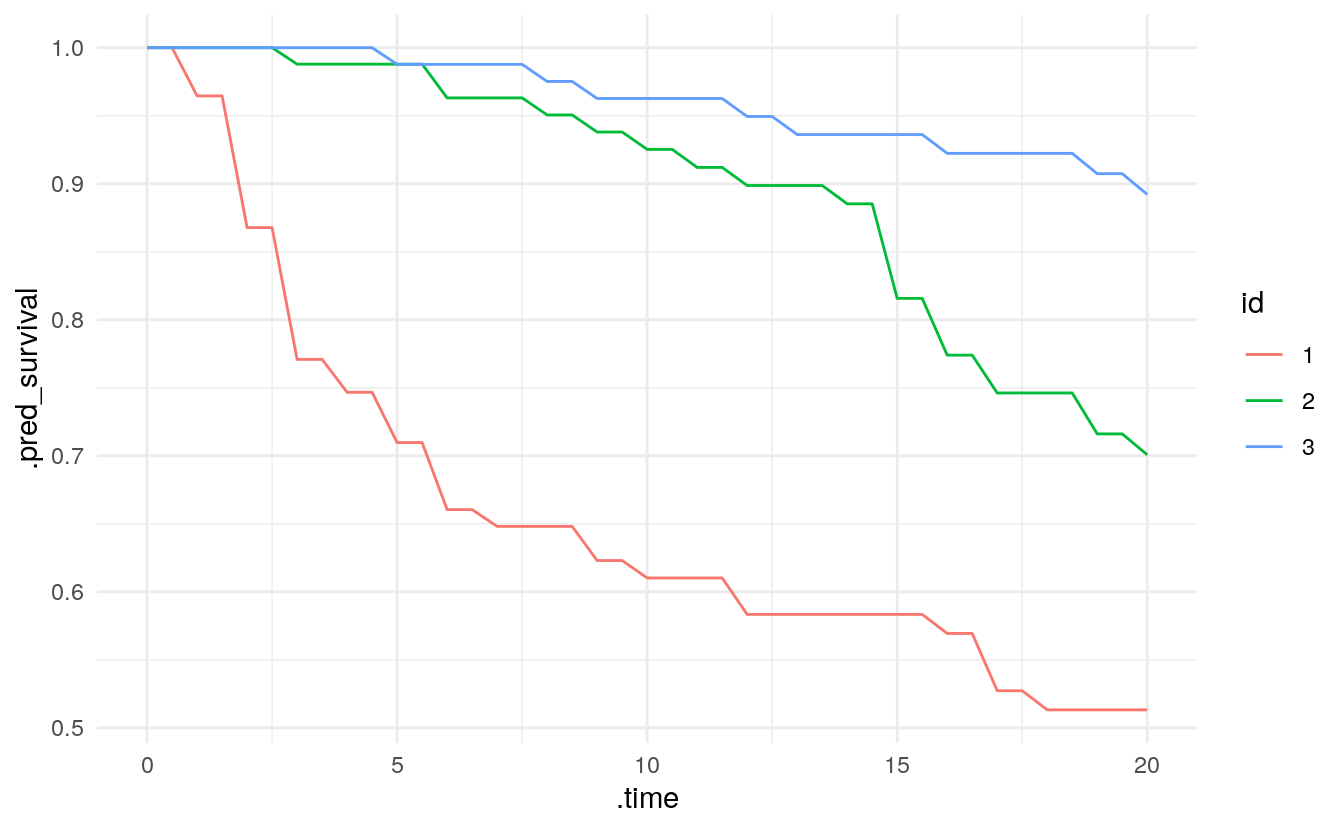
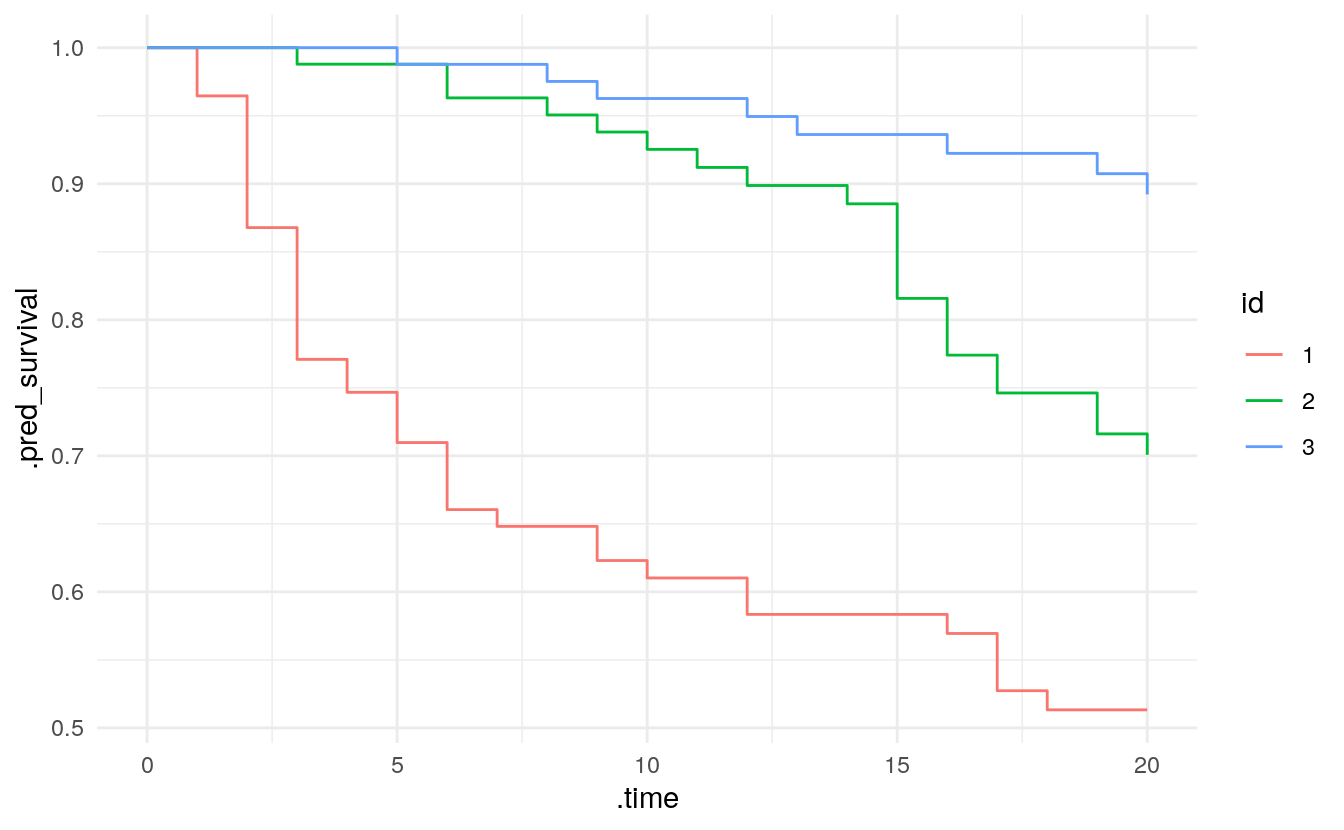
plot as step function (#545)

diff --git a/content/blog/survival-analysis-parsnip-adjacent/index.md b/content/blog/survival-analysis-parsnip-adjacent/index.md
@@ -17,7 +17,7 @@ photo:
 # one of: "deep-dive", "learn", "package", "programming", or "other"
 categories: [deep-dive] 
 tags: [tidymodels, parsnip]
-rmd_hash: 27c728640473f1a8
+rmd_hash: c180583753f3af16
 
 ---
 
@@ -103,7 +103,7 @@ We have introduced several new prediction types: time to event (`time`), linear 
 <div class="highlight">
 
 <pre class='chroma'><code class='language-r' data-lang='r'><span class='nv'>f_pred</span> <span class='o'>&lt;-</span> <span class='nf'><a href='https://rdrr.io/r/stats/predict.html'>predict</a></span><span class='o'>(</span><span class='nv'>f_fit</span>, new_data <span class='o'>=</span> <span class='nv'>bladder_test</span>,
-                  type <span class='o'>=</span> <span class='s'>"survival"</span>, time <span class='o'>=</span> <span class='nf'><a href='https://rdrr.io/r/base/seq.html'>seq</a></span><span class='o'>(</span><span class='m'>0</span>, <span class='m'>20</span>, <span class='m'>0.5</span><span class='o'>)</span><span class='o'>)</span>
+                  type <span class='o'>=</span> <span class='s'>"survival"</span>, time <span class='o'>=</span> <span class='nf'><a href='https://rdrr.io/r/base/seq.html'>seq</a></span><span class='o'>(</span><span class='m'>0</span>, <span class='m'>20</span>, <span class='m'>1</span><span class='o'>)</span><span class='o'>)</span>
 
 <span class='nv'>f_pred</span> <span class='o'>&lt;-</span> <span class='nv'>f_pred</span> <span class='o'><a href='https://magrittr.tidyverse.org/reference/pipe.html'>%&gt;%</a></span> 
   <span class='nf'>mutate</span><span class='o'>(</span>id <span class='o'>=</span> <span class='nf'><a href='https://rdrr.io/r/base/factor.html'>factor</a></span><span class='o'>(</span><span class='m'>1</span><span class='o'>:</span><span class='m'>3</span><span class='o'>)</span><span class='o'>)</span> <span class='o'><a href='https://magrittr.tidyverse.org/reference/pipe.html'>%&gt;%</a></span> 
@@ -111,7 +111,7 @@ We have introduced several new prediction types: time to event (`time`), linear 
 
 <span class='nv'>f_pred</span> <span class='o'><a href='https://magrittr.tidyverse.org/reference/pipe.html'>%&gt;%</a></span> 
   <span class='nf'>ggplot</span><span class='o'>(</span><span class='nf'>aes</span><span class='o'>(</span>x <span class='o'>=</span> <span class='nv'>.time</span>, y <span class='o'>=</span> <span class='nv'>.pred_survival</span>, col <span class='o'>=</span> <span class='nv'>id</span><span class='o'>)</span><span class='o'>)</span> <span class='o'>+</span>
-  <span class='nf'>geom_line</span><span class='o'>(</span><span class='o'>)</span>
+  <span class='nf'>geom_step</span><span class='o'>(</span><span class='o'>)</span>
 </code></pre>
 <img src="figs/predict-1.png" width="700px" style="display: block; margin: auto;" />
 
